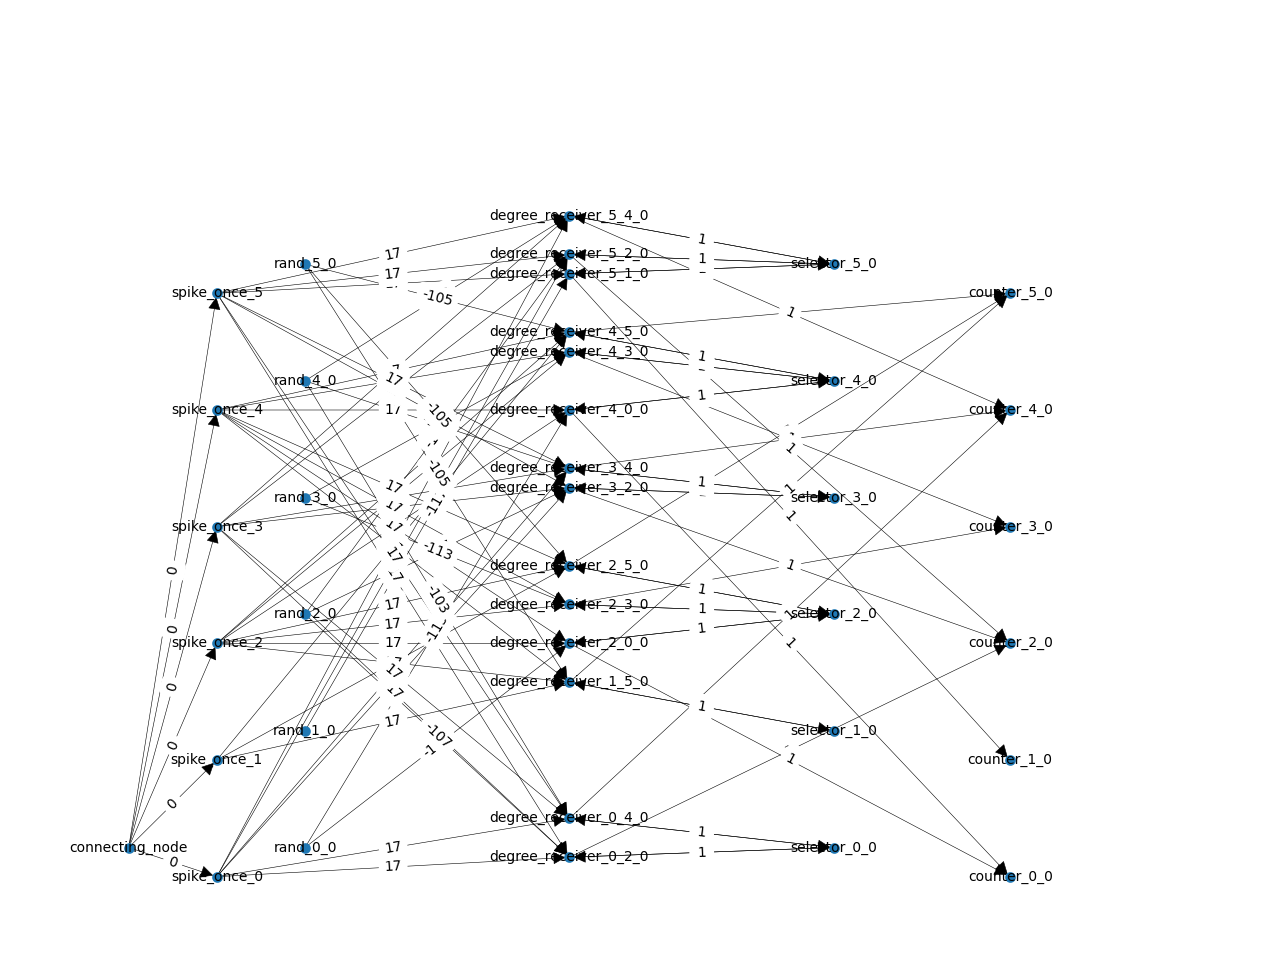
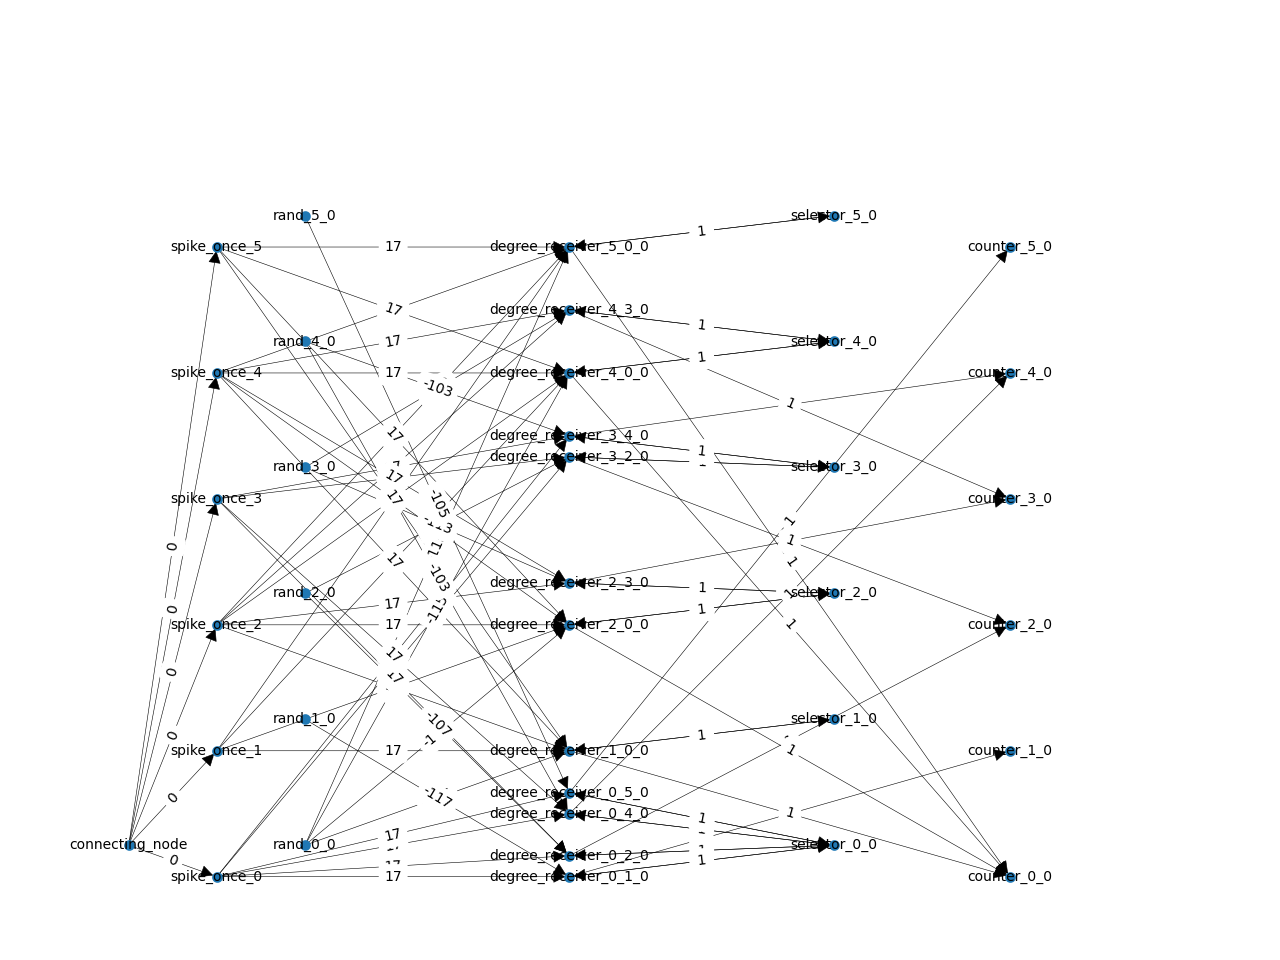
Working branch.

diff --git a/test/test_algo_p1.py b/test/test_algo_p1.py
@@ -53,11 +53,11 @@ class Test_counter(unittest.TestCase):
         # delete_dir_if_exists(f"latex/Images/graphs")
 
         # Get list of planer triangle free graphs.
-        m = 1
+        m = 0
 
-        for retry in range(0, 1, 1):
+        for retry in range(0, 3, 1):
             graphs = []
-            for size in range(5, 6, 1):
+            for size in range(3, 8, 1):
                 graphs.append(create_triangle_free_planar_graph(size, 0.6, 42, False))
             for G in graphs:
                 # G = create_manual_graph_with_4_nodes()
